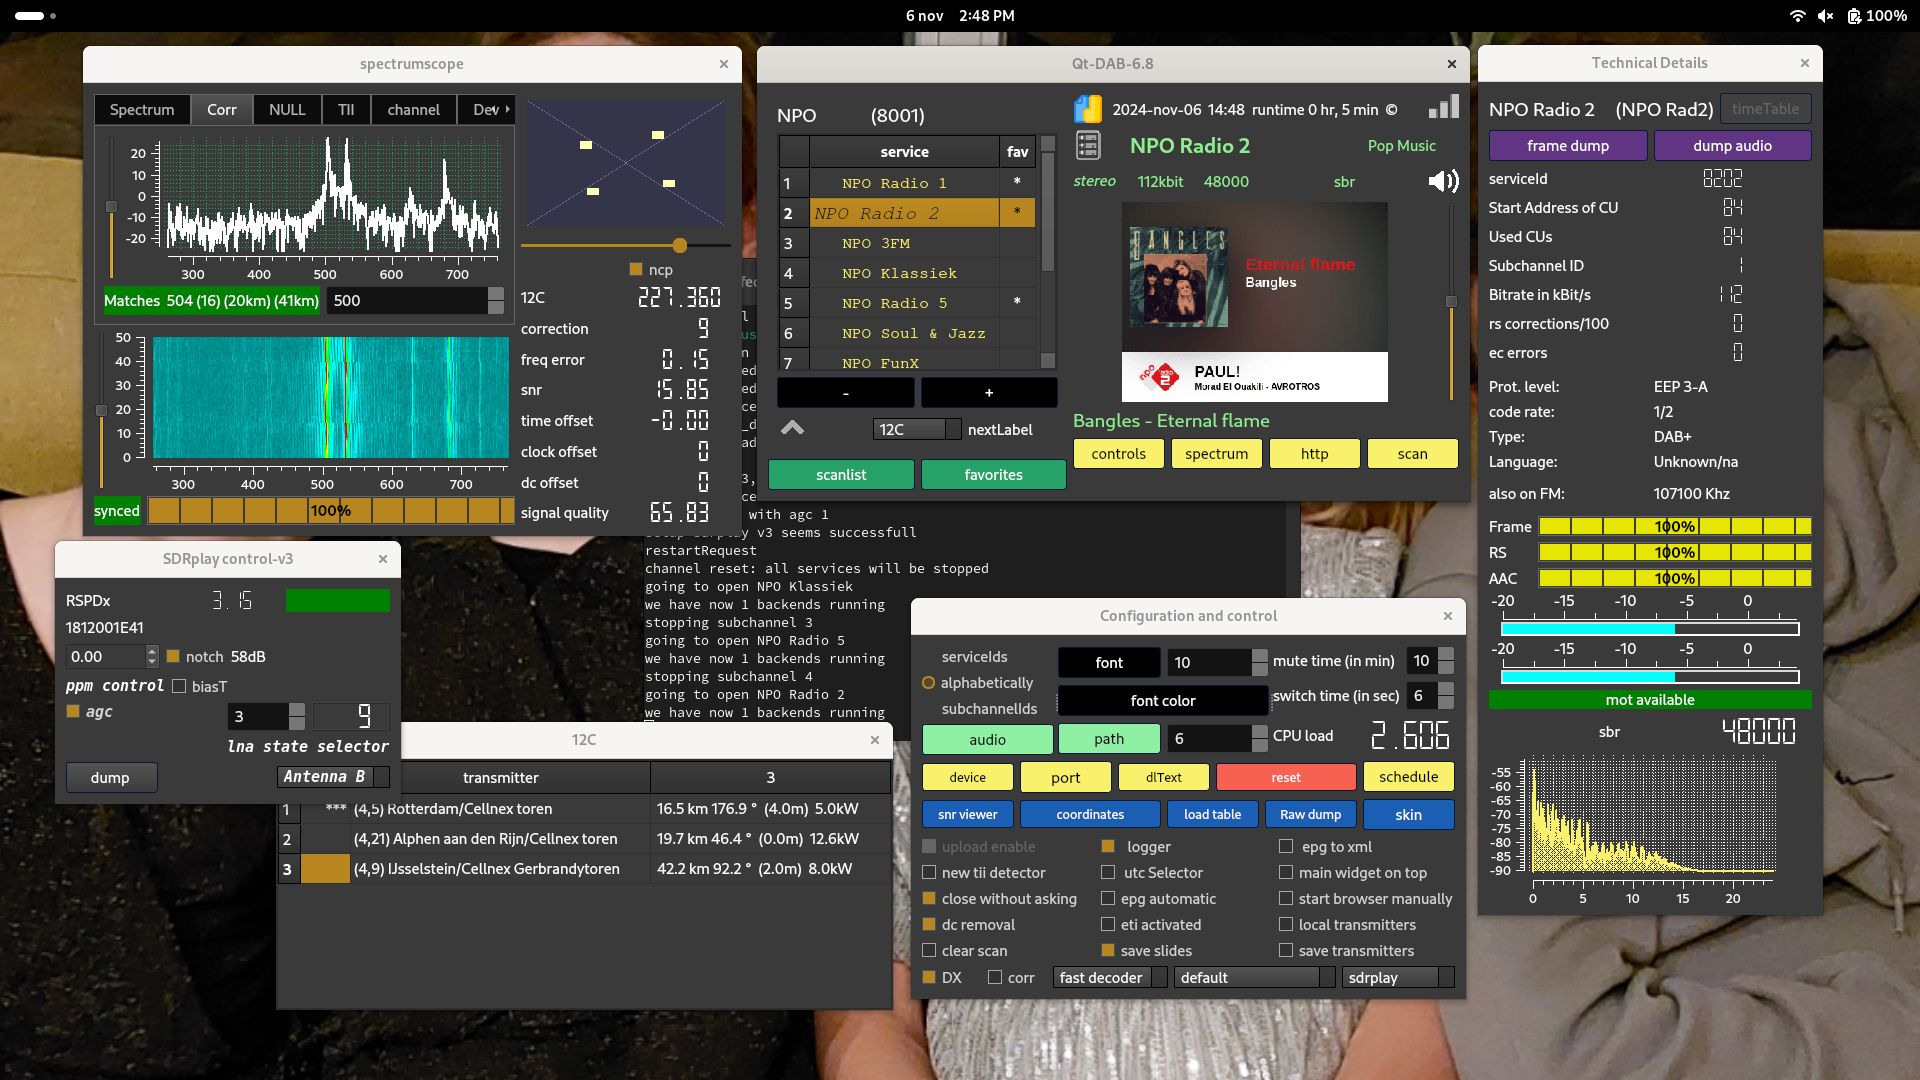
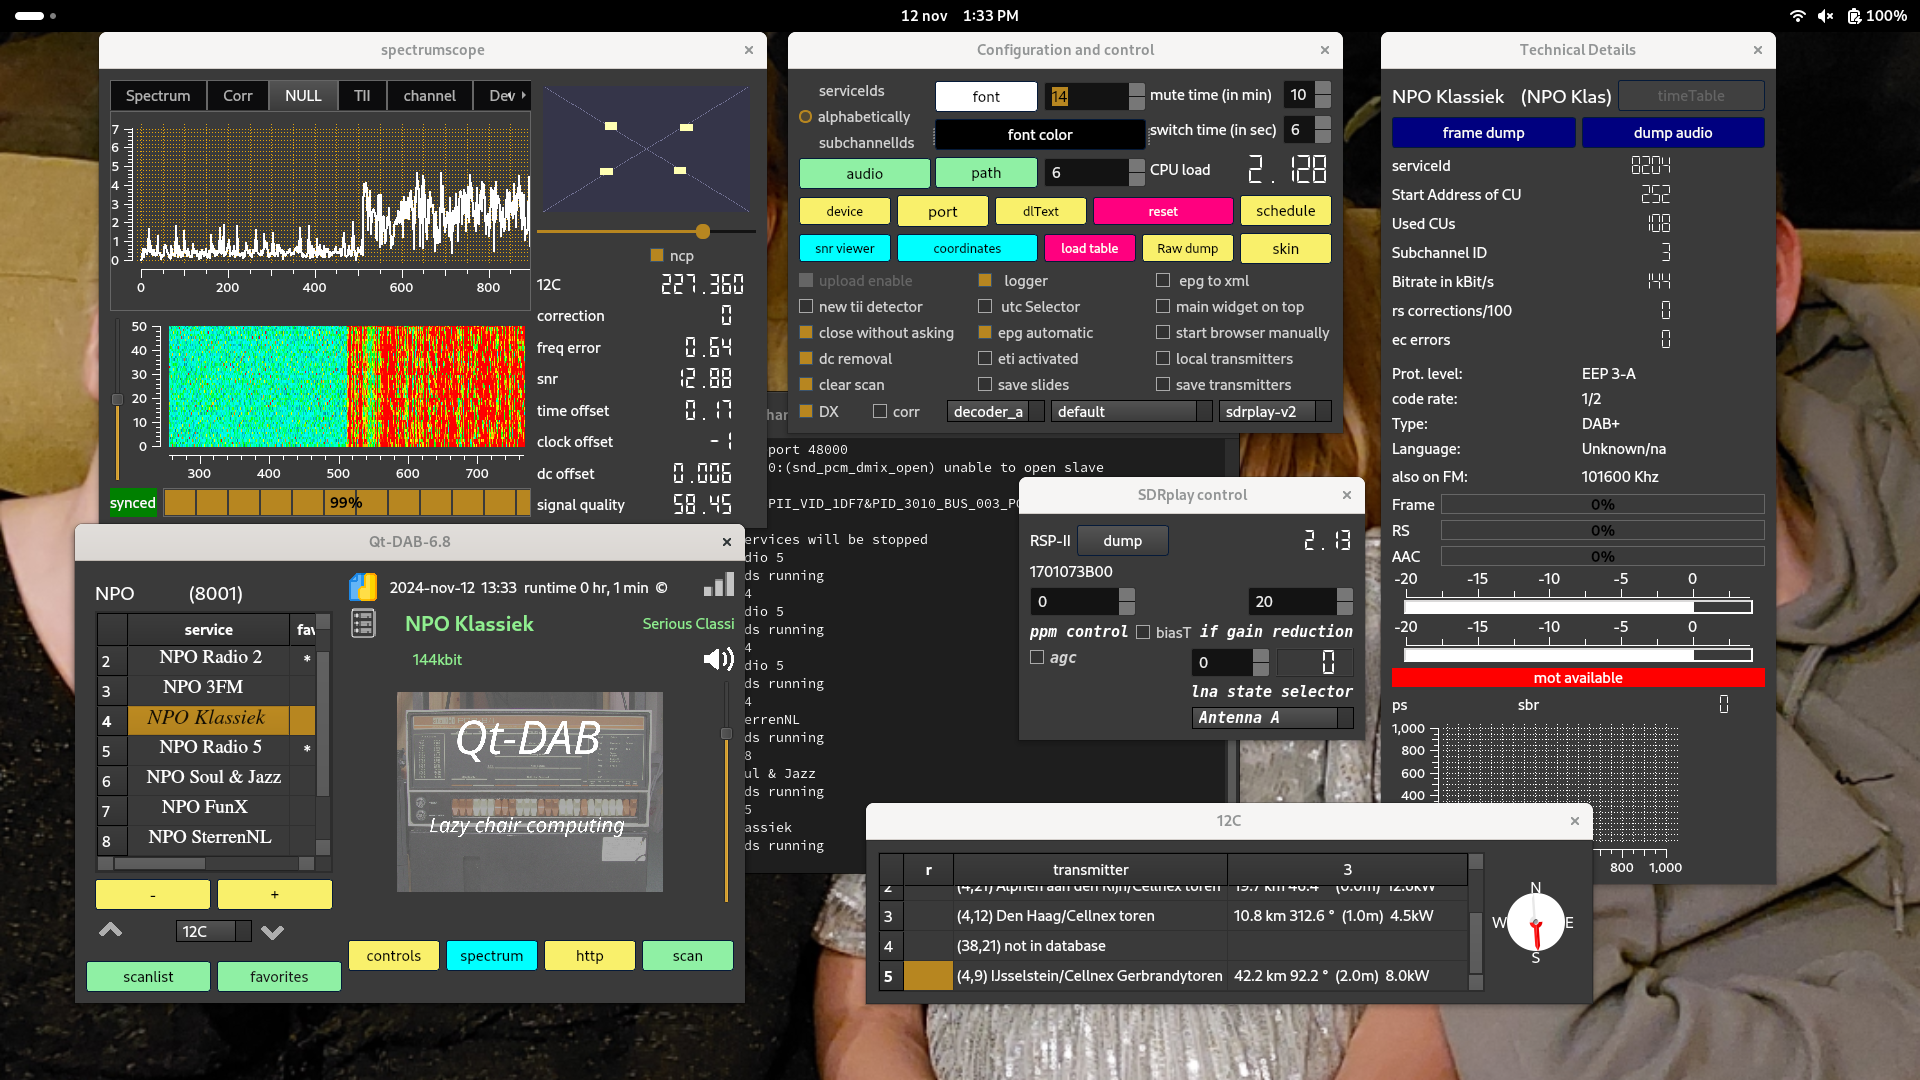
README

diff --git a/README.md b/README.md
@@ -48,7 +48,7 @@ Table of Contents
 * [Introduction](#introduction)
 * [Features](#features)
 * [Widgets and scopes](#widgets-and-scopes-for-qt-dab)
-* [A Note on using an RTLSDR device](#a-note-on-rtlsdr-device]
+* [A Note on using an RTLSDR device](#a-note-on-using-an-rtlsdr-device]
 * [Scan control](#scan-control)
 * [Displaying TII data](#displaying-TII-data)
 * [Documentation](#documentation)
@@ -295,12 +295,13 @@ DAB transmissions are usually  transmitted by an SFN (Single Frequency Network),
 with unique TII data).
 If the *DX* selector on the *configuration and control* widget is set, Qt-DAB tries to identify as much as possible transmitters from the SFN and shows them.
 
-![6.8](/res/read_me/DX-map.png?raw=true)
+![6.8](/res/read_me/transmitter.png?raw=true)
 
 The picture shows that in my environment, on channel 12C, the national network,
-I can identify 5 transmitters in the received signal.
+I can identify a couple of different transmitters in the received signal.
 The left column in the widget shows the transmitter whose data is the data
-being processed.
+being processed. New is the addition of a "compass" to show the direction
+from which the signal comes from the selected transmitter.
 
 If the DX mode is set, Qt-DAB-6.8 will save the transmitters that
 are identified in a text file, in Windows the file in the Qt-DAB-files folder in the home folder, in Linux the file is stored in the Qt-DAB-files folder in the "/tmp" directory.
